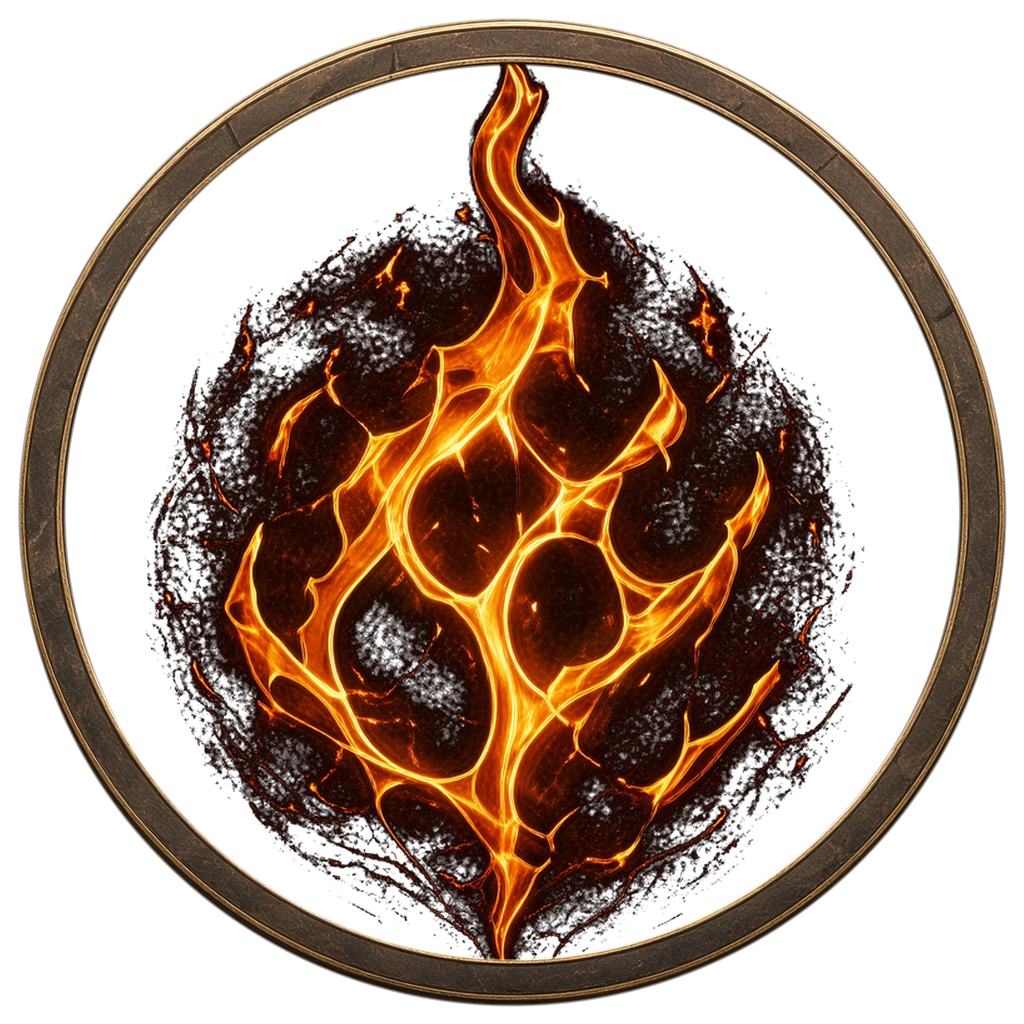
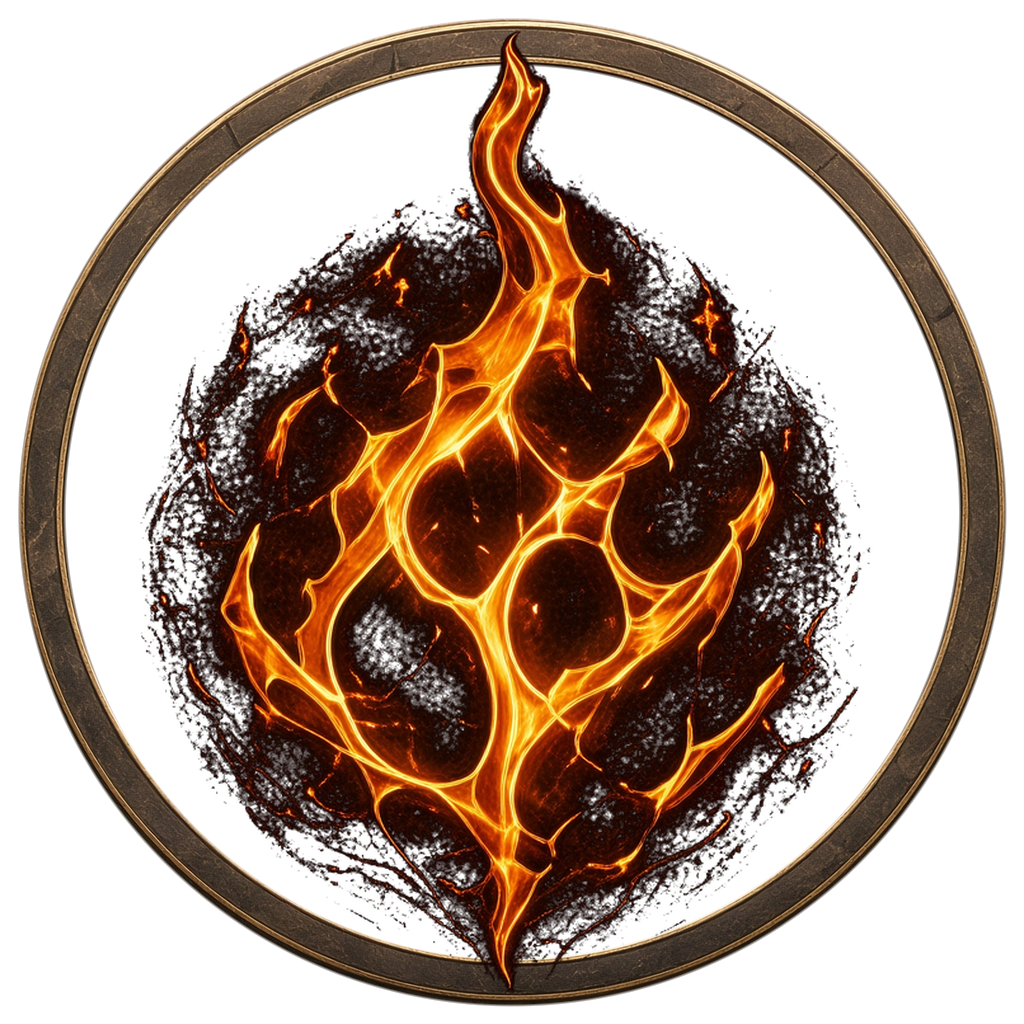
v0.150: 속성 앰블럼 심볼을 링 앞으로 돌출 합성
링 뒤→심볼 앞 순서로 재합성. 개별 composites/icons PNG.

Changed region(s): [[0.125, 0.0312, 0.8438, 0.9688]]

diff --git a/fantasy_arena/index.html b/fantasy_arena/index.html
@@ -4,14 +4,14 @@
 <meta charset="UTF-8" />
 <meta name="viewport" content="width=device-width, initial-scale=1" />
 <title>판타지 아레나</title>
-<link rel="stylesheet" href="css/game.css?v=0.149" />
+<link rel="stylesheet" href="css/game.css?v=0.150" />
 </head>
 <body>
 <button class="bgm-btn" id="bgmBtn" title="모험 BGM">♪</button>
 <div id="app">
   <section id="title" class="screen active">
     <div class="build-ver" id="buildVer">v0.104</div>
-    <h1 class="title title-logo-wrap"><img class="title-logo" src="assets/img/logos/logo_final_product_sans.png?v=0.149" alt="Fantasy Arena" /></h1>
+    <h1 class="title title-logo-wrap"><img class="title-logo" src="assets/img/logos/logo_final_product_sans.png?v=0.150" alt="Fantasy Arena" /></h1>
     <div class="subtitle">종족을 고르세요 · 오리지널 규칙 축소판</div>
     <div class="title-body">
       <div class="hero-picks" id="heroPicks"></div>
@@ -211,14 +211,14 @@
 </div>
 
 
-<script src="js/cards-data.js?v=0.149"></script>
+<script src="js/cards-data.js?v=0.150"></script>
 <script src="js/vfx.js?v=0.102"></script>
 <script src="js/bgm.js?v=0.102"></script>
 <script src="js/sfx.js?v=0.102"></script>
 <script src="js/settings.js?v=0.102"></script>
-<script src="js/render.js?v=0.149"></script>
-<script src="js/combat.js?v=0.149"></script>
+<script src="js/render.js?v=0.150"></script>
+<script src="js/combat.js?v=0.150"></script>
 <script src="js/spell-fx.js?v=0.102"></script>
-<script src="js/game.js?v=0.149"></script>
+<script src="js/game.js?v=0.150"></script>
 </body>
 </html>

diff --git a/index.html b/index.html
@@ -2,11 +2,11 @@
 <html lang="ko">
 <head>
   <meta charset="utf-8" />
-  <meta http-equiv="refresh" content="0; url=fantasy_arena/?v=0.149" />
+  <meta http-equiv="refresh" content="0; url=fantasy_arena/?v=0.150" />
   <title>Fantasy Arena</title>
-  <script>location.replace("fantasy_arena/?v=0.149");</script>
+  <script>location.replace("fantasy_arena/?v=0.150");</script>
 </head>
 <body>
-  <p><a href="fantasy_arena/?v=0.149">판타지 아레나 열기 (v0.149)</a></p>
+  <p><a href="fantasy_arena/?v=0.150">판타지 아레나 열기 (v0.150)</a></p>
 </body>
 </html>

diff --git a/fantasy_arena/js/game.js b/fantasy_arena/js/game.js
@@ -1,4 +1,4 @@
-const GAME_VERSION = "0.149";
+const GAME_VERSION = "0.150";
 window.GAME_VERSION = GAME_VERSION;
 
 function uid() { return Math.random().toString(36).slice(2, 9); }
